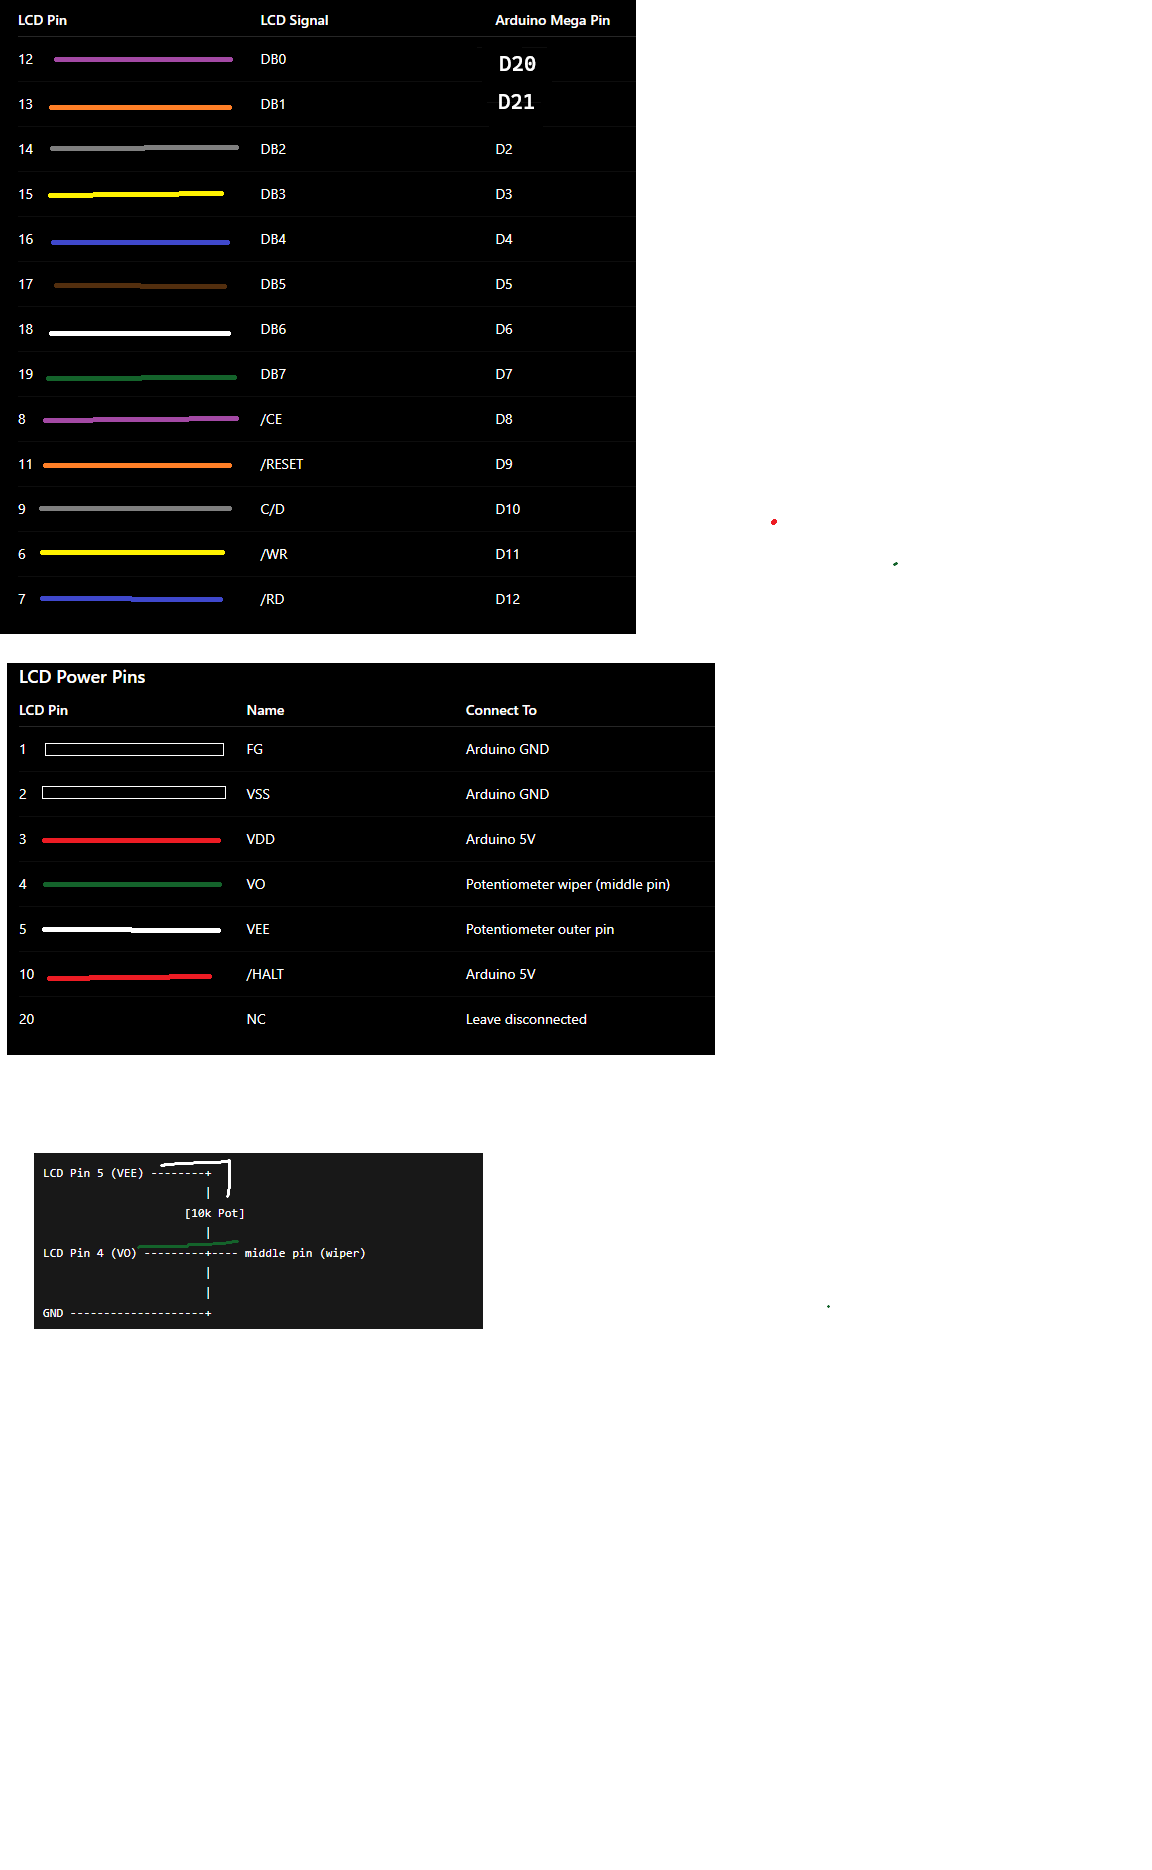
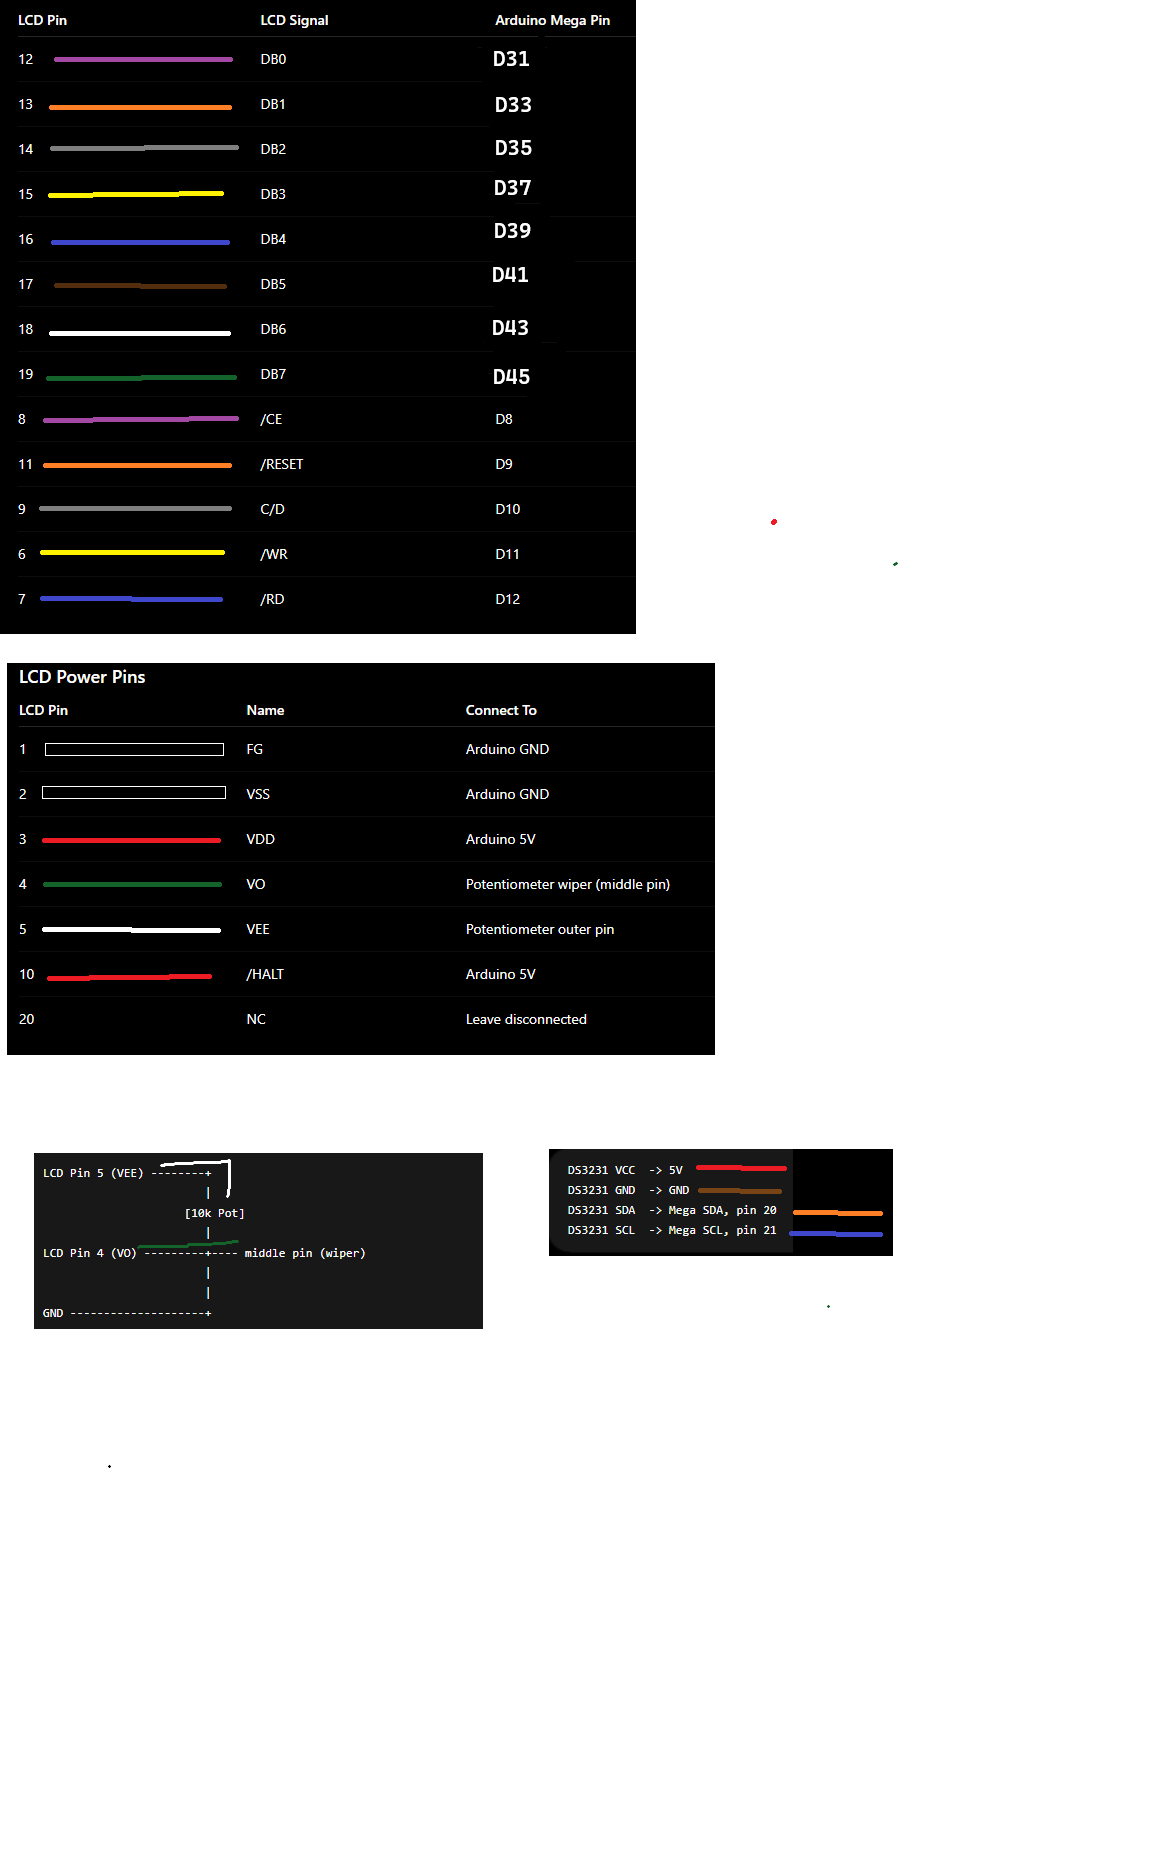
Clock Logic. RTC Interface.

Changed region(s): [[0.4688, 0.5893, 0.7812, 0.6824], [0.4062, 0.031, 0.4688, 0.2171]]

diff --git a/RA6963-N1/lcd_driver.cpp b/RA6963-N1/lcd_driver.cpp
@@ -1,7 +1,6 @@
 //  The controller is a RAiO RA6963-N1
 //    https://www.crystalfontz.com/controllers/Raio%20Technology/RA6963/424
 //
-//
 //==============================================================================
 // LCD & USD control lines
 //   ARD      | Port  | Display pin |  Function - 8080 Parallel   |
@@ -17,21 +16,17 @@
 // -----------+-------+-------------+-----------------------------+
 // Data Lines
 // -----------+-------+-------------+-----------------------------+
-//  D20       | PORTD |             |  LCD_D10                    |
-//  D21       | PORTD |             |  LCD_D11                    |
-//  D2        | PORTD |             |  LCD_D12                    |
-//  D3        | PORTD |             |  LCD_D13                    |
-//  D4        | PORTD |             |  LCD_D14                    |
-//  D5        | PORTD |             |  LCD_D15                    |
-//  D6        | PORTD |             |  LCD_D16                    |
-//  D7        | PORTD |             |  LCD_D17                    |
+//  D31        | PORTD |             |  LCD_D10                   |
+//  D33        | PORTD |             |  LCD_D11                   |
+//  D35        | PORTD |             |  LCD_D12                   |
+//  D37        | PORTD |             |  LCD_D13                   |
+//  D39        | PORTD |             |  LCD_D14                   |
+//  D41        | PORTD |             |  LCD_D15                   |
+//  D43        | PORTD |             |  LCD_D16                   |
+//  D45        | PORTD |             |  LCD_D17                   |
 // -----------+-------+-------------+-----------------------------+
 
-
-//==============================================================================
 #include "lcd_driver.h"
-#include <avr/pgmspace.h>
-#include <util/delay.h>
 
 //==============================================================================
 // GPIO
@@ -53,7 +48,8 @@
 #define LCD_READ_ACTIVE   digitalWrite(LCD_RD, LOW)
 #define LCD_READ_IDLE     digitalWrite(LCD_RD, HIGH)
 
-const uint8_t DATA_PINS[8] = {20,21,2,3,4,5,6,7};
+// const uint8_t DATA_PINS[8] = {20,21,2,3,4,5,6,7};
+const uint8_t DATA_PINS[8] = {31,33,35,37,39,41,43,45};
 
 //==============================================================================
 // LCD Controls
@@ -133,11 +129,11 @@ void lcd_setup()
 void initialize_display()
 {
   LCD_RESET_OFF;
-  _delay_ms(10);
+  delay(10);
   LCD_RESET_ON;
-  _delay_ms(100);
+  delay(100);
   LCD_RESET_OFF;
-  _delay_ms(500);
+  delay(500);
 
   DISPLAY_OFF;
 

diff --git a/RA6963-N1/clock.cpp b/RA6963-N1/clock.cpp
@@ -1,0 +1,75 @@
+#include "clock.h"
+#include "RTClib.h"
+#include <Wire.h>
+
+RTC_DS3231 rtc;
+
+void rtc_setup() 
+{
+  Wire.begin();
+
+  if (!rtc.begin()) {
+    Serial.println("Error: Couldn't find RTC");
+    while(1);
+  }
+}
+
+//==============================================================================
+// Fake time for testing display with faster time
+// Use Markiplier (multiplier) to set fake time rate
+//==============================================================================
+#define DEBUG               false
+#define MARKIPLIER          60
+#define DEBUG_START_HOUR    23
+#define DEBUG_START_MINUTE  50
+#define DEBUG_START_SECOND  0
+
+static DateTime getMarkipliedTime() {
+  uint32_t startSeconds = DEBUG_START_HOUR * 3600UL + DEBUG_START_MINUTE * 60UL + DEBUG_START_SECOND;
+  uint32_t markipliedUpSeconds = ((millis() / 1000UL) * MARKIPLIER);
+  uint32_t markipliedSeconds = (markipliedUpSeconds + startSeconds) % 86400UL;
+
+  uint8_t hour24 = markipliedSeconds / 3600UL;
+  uint8_t minute = (markipliedSeconds % 3600UL) / 60UL;
+  uint8_t second = markipliedSeconds % 60UL;
+
+  return DateTime(2026, 6, 7, hour24, minute, second);
+}
+
+//==============================================================================
+// RTC Interface
+//==============================================================================
+
+void setTime(const Time &now) 
+{
+  uint8_t hour = (now.hour % 12) + 12 * (now.isPM);
+
+  // DateTime() is Year, Month, Day, Hour, Minute, Second
+  rtc.adjust(DateTime(now.year, now.month, now.day, hour, now.minute, 0));
+}
+ 
+
+Time getTime() 
+{
+  DateTime now = DEBUG ? getMarkipliedTime() : rtc.now();
+
+  return Time{now.year(), now.month(), now.day(), now.twelveHour(), now.minute(), now.isPM()};
+}
+
+void printTime() 
+{
+  DateTime now = DEBUG ? getMarkipliedTime() : rtc.now();
+
+  String time = String(now.twelveHour()) + ":";
+
+  if (now.minute() < 10) {
+    time += "0";
+  }
+
+  time += String(now.minute()) + " ";
+  time += (now.isPM() ? "PM" : "AM");
+
+  Serial.println(time);
+}
+
+

diff --git a/RA6963-N1/clock.h b/RA6963-N1/clock.h
@@ -1,0 +1,17 @@
+#pragma once
+#include <Arduino.h>
+
+struct Time {
+  uint16_t year;
+  uint8_t  month;
+  uint8_t  day;
+  uint8_t  hour; // 1-12
+  uint8_t  minute;
+  bool     isPM;
+};
+
+void rtc_setup();
+
+void setTime(const Time &now);
+Time getTime();
+void printTime();

diff --git a/RA6963-N1/lcd_driver.h b/RA6963-N1/lcd_driver.h
@@ -1,6 +1,5 @@
 #pragma once
 #include <Arduino.h>
-#include <stdint.h>
 
 // Resolution
 #define SCREEN_WIDTH 160
